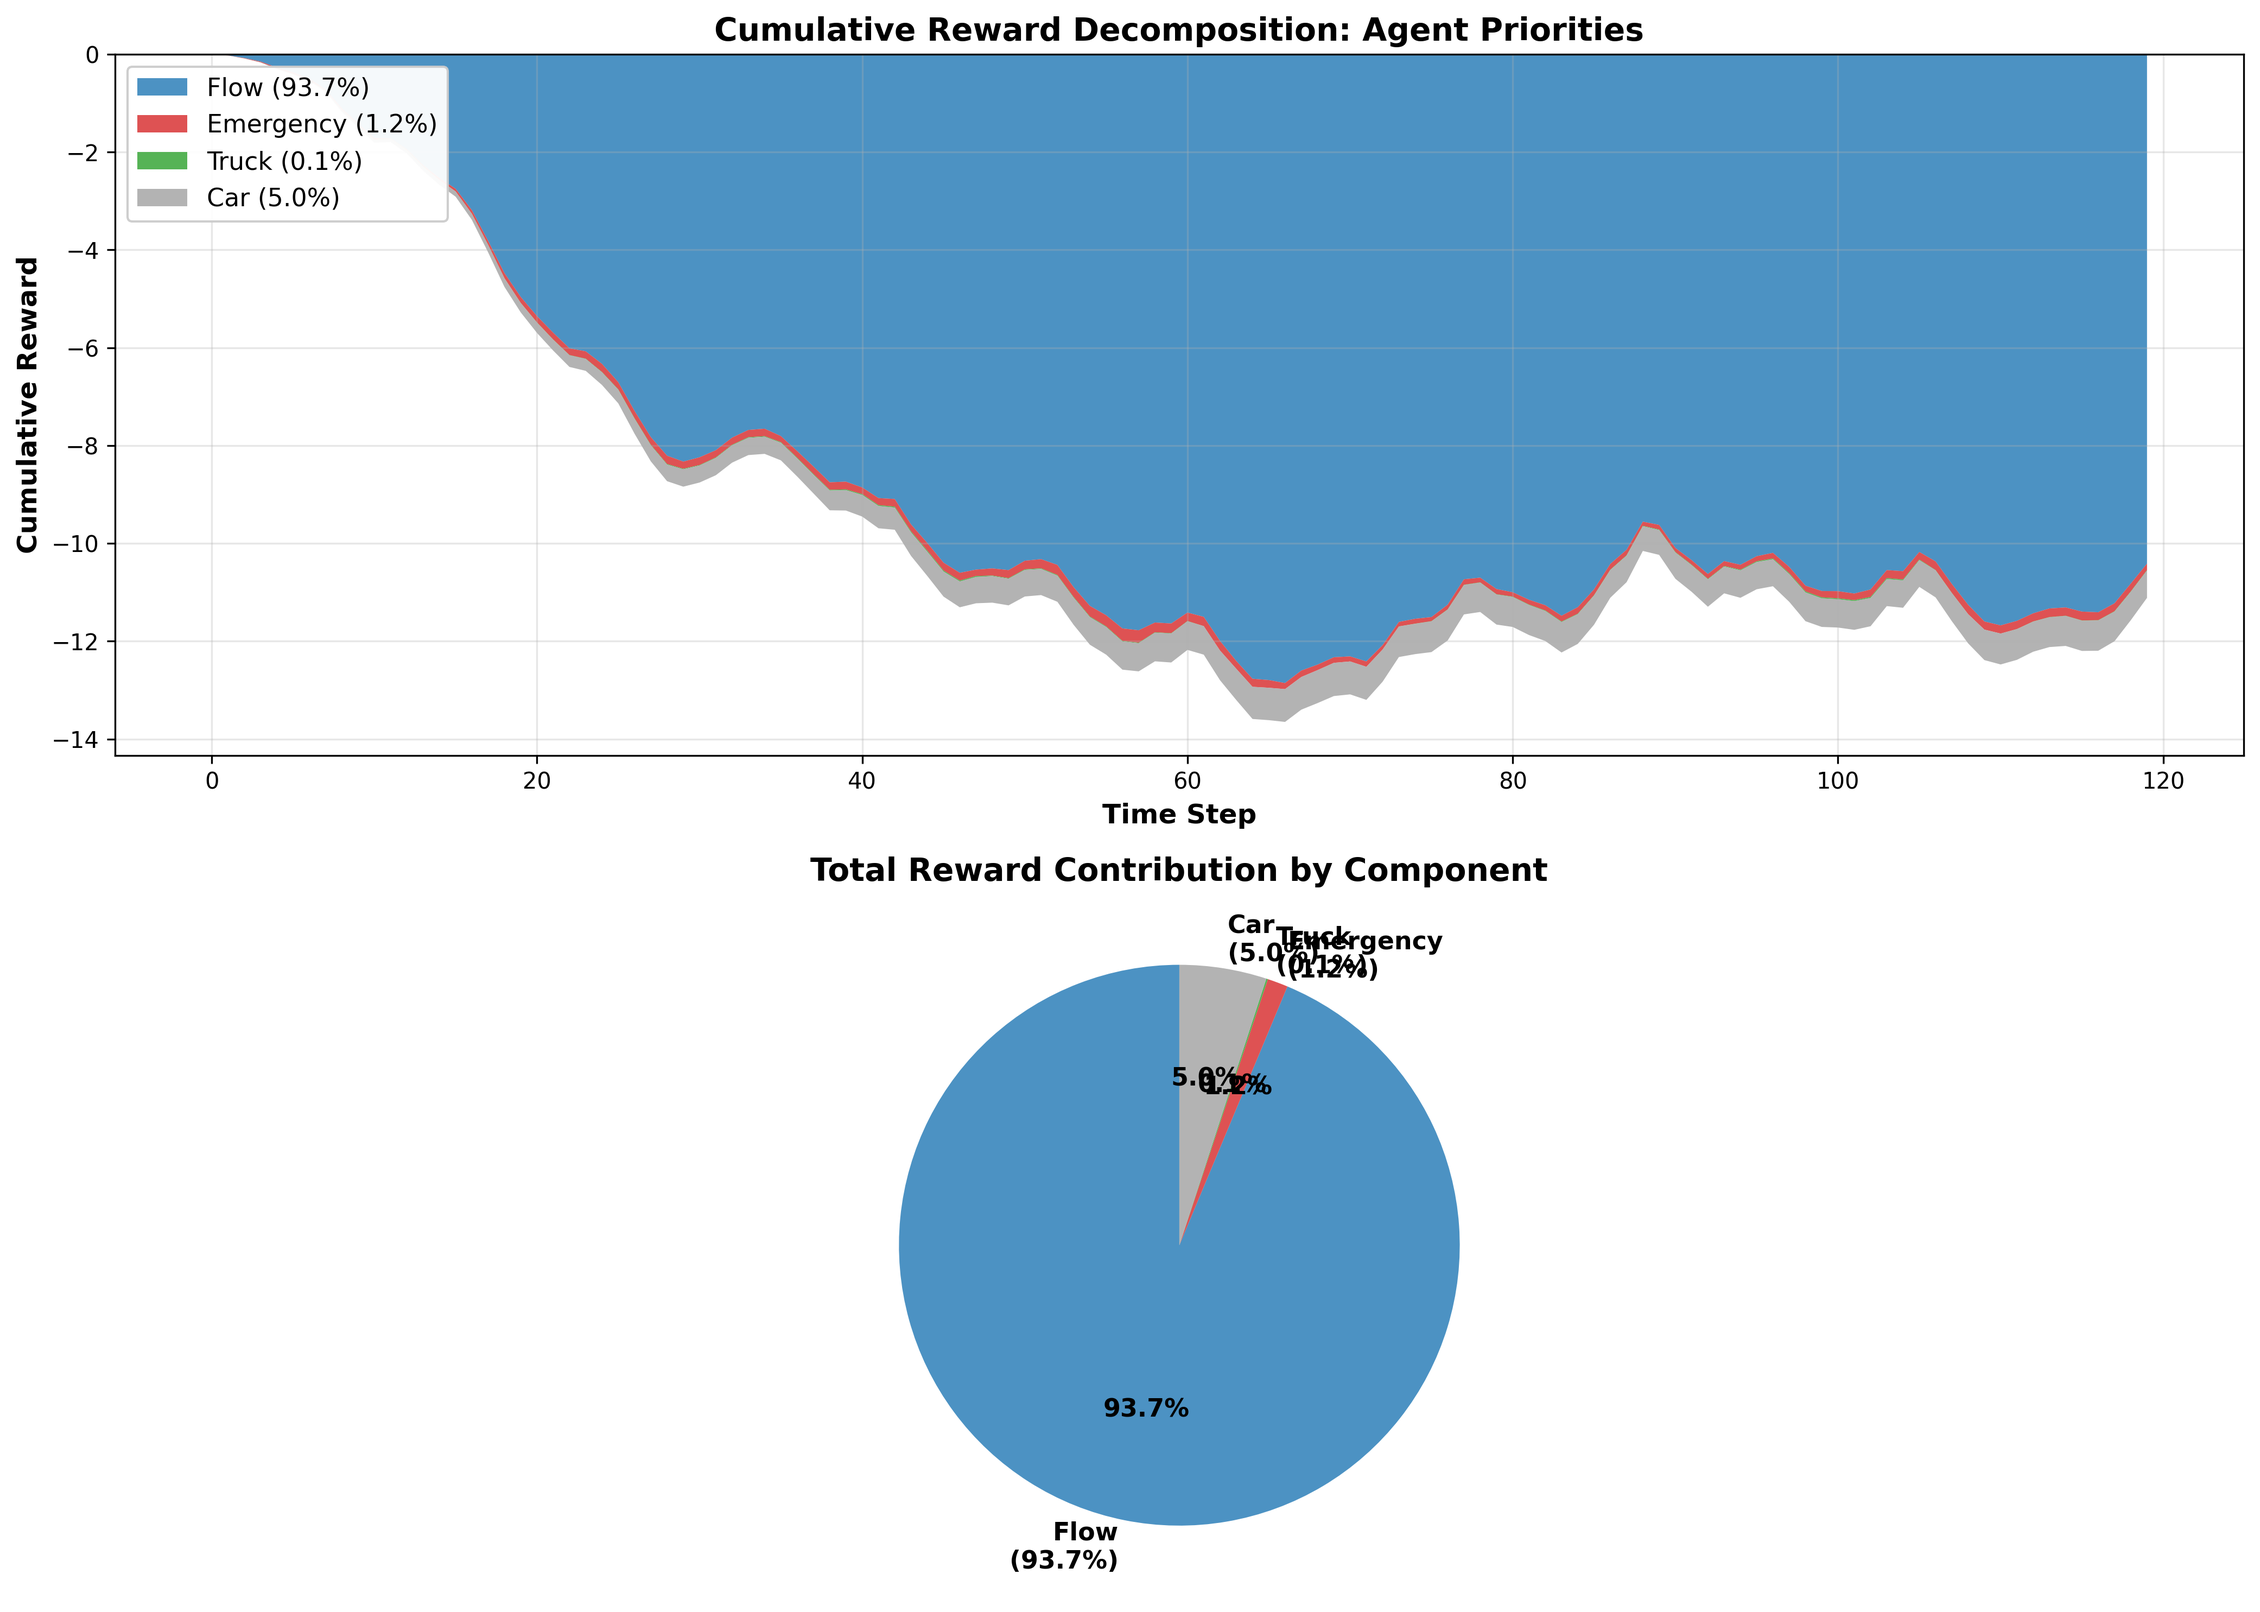
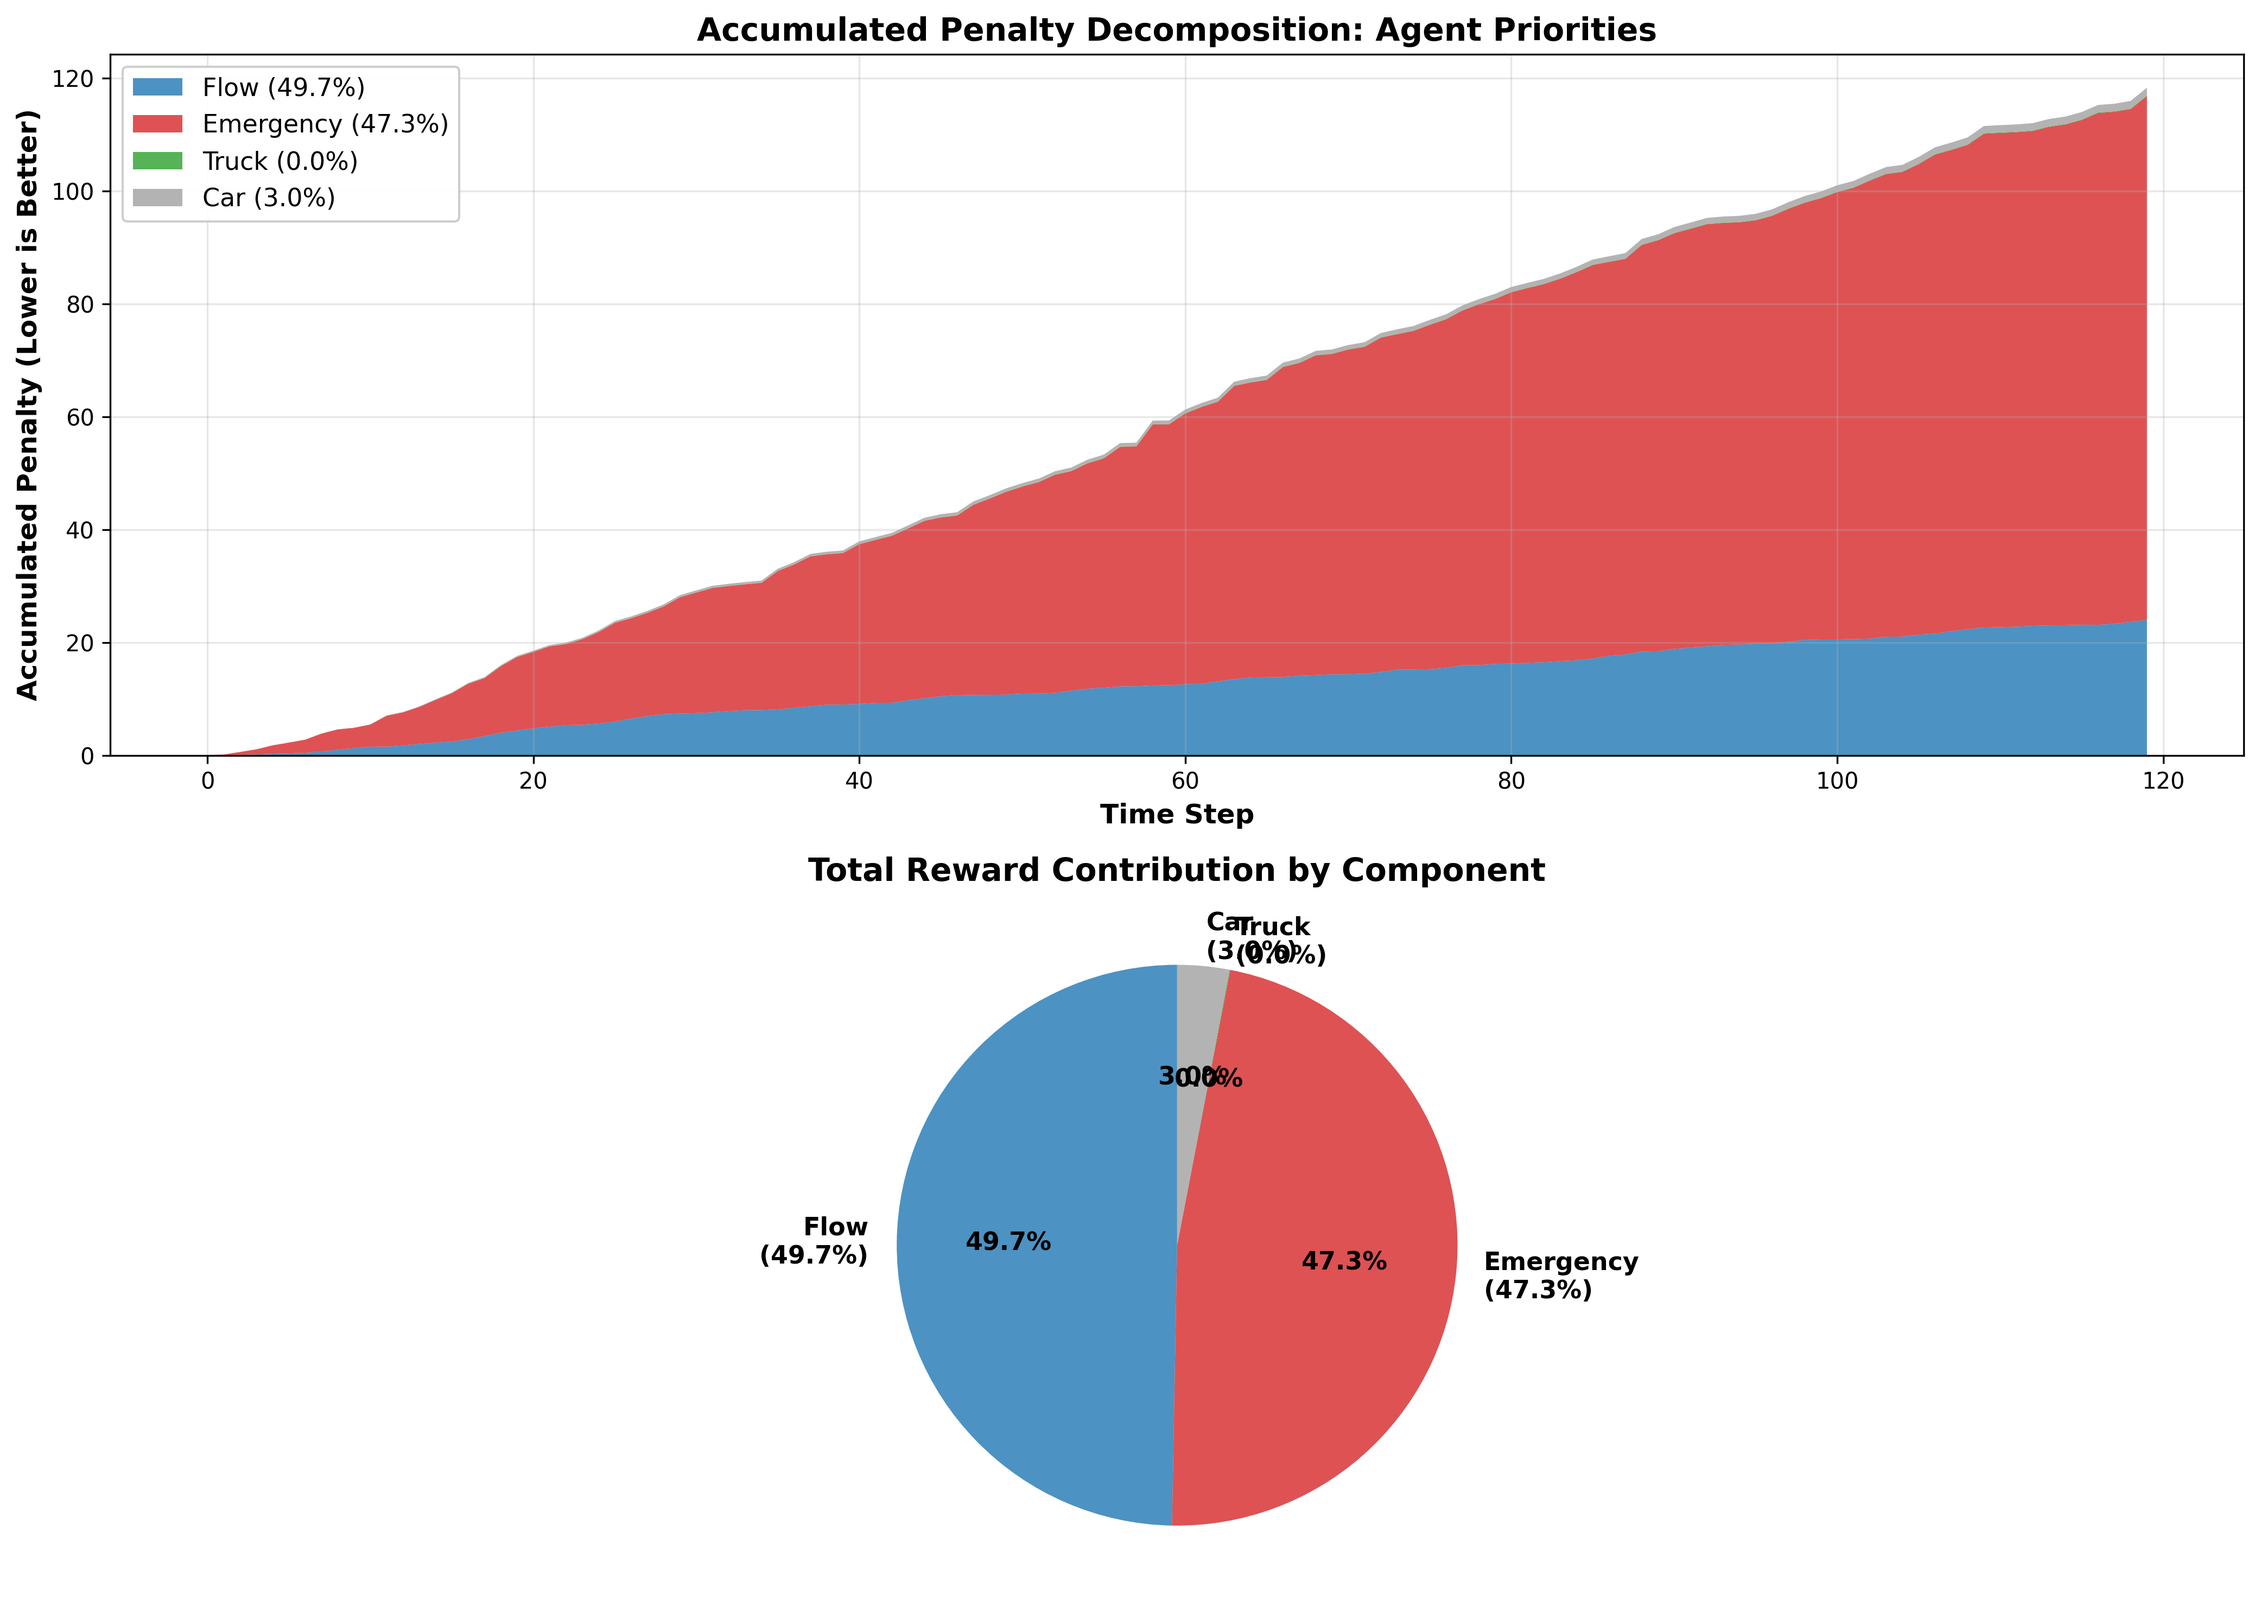
Updated System and reward decomposition

diff --git a/explain_reward.py b/explain_reward.py
@@ -91,20 +91,21 @@ def run_reward_analysis_episode(
 
 def compute_cumulative_rewards(reward_data: dict) -> dict:
     """
-    Compute cumulative rewards over the episode.
+    Compute accumulated penalties (absolute cumulative sums) over the episode.
+    This reframes negative rewards as cumulative costs that increase over time.
     
     Args:
         reward_data: Dict with individual reward component arrays
         
     Returns:
-        dict with cumulative values
+        dict with accumulated penalty values
     """
     return {
-        'flow_cumulative': np.cumsum(reward_data['flow_rewards']),
-        'emergency_cumulative': np.cumsum(reward_data['emergency_rewards']),
-        'truck_cumulative': np.cumsum(reward_data['truck_rewards']),
-        'car_cumulative': np.cumsum(reward_data['car_rewards']),
-        'total_cumulative': np.cumsum(reward_data['total_rewards']),
+        'flow_cumulative': np.cumsum(np.abs(reward_data['flow_rewards'])),
+        'emergency_cumulative': np.cumsum(np.abs(reward_data['emergency_rewards'])),
+        'truck_cumulative': np.cumsum(np.abs(reward_data['truck_rewards'])),
+        'car_cumulative': np.cumsum(np.abs(reward_data['car_rewards'])),
+        'total_cumulative': np.cumsum(np.abs(reward_data['total_rewards'])),
     }
 
 
@@ -187,8 +188,8 @@ def plot_reward_decomposition(
     )
     
     ax1.set_xlabel('Time Step', fontsize=12, fontweight='bold')
-    ax1.set_ylabel('Cumulative Reward', fontsize=12, fontweight='bold')
-    ax1.set_title('Cumulative Reward Decomposition: Agent Priorities', fontsize=14, fontweight='bold')
+    ax1.set_ylabel('Accumulated Penalty (Lower is Better)', fontsize=12, fontweight='bold')
+    ax1.set_title('Accumulated Penalty Decomposition: Agent Priorities', fontsize=14, fontweight='bold')
     ax1.legend(loc='upper left', fontsize=11, framealpha=0.95)
     ax1.grid(True, alpha=0.3)
     

diff --git a/SumoEnv.py b/SumoEnv.py
@@ -435,7 +435,7 @@ class SumoEnv(gym.Env):
             # Multi-objective reward based on priority: emergency > truck > car > others
             # More balanced: 45% general, 30% emergency, 15% truck, 10% car
             flow_reward = -0.40 * (delta_weighted / 1000.0)
-            emergency_reward = -0.40 * (delta_emergency / 300.0)  # Increased weight & divisor
+            emergency_reward = -0.40 * (delta_emergency / 10.0)  # Dramatically increased impact (divisor: 300.0 → 10.0)
             truck_reward = -0.10 * (delta_truck / 1000.0)
             car_reward = -0.10 * (delta_car / 1000.0)
             
